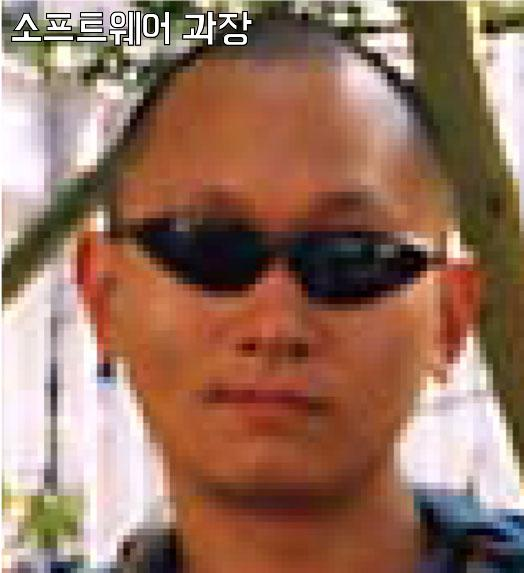
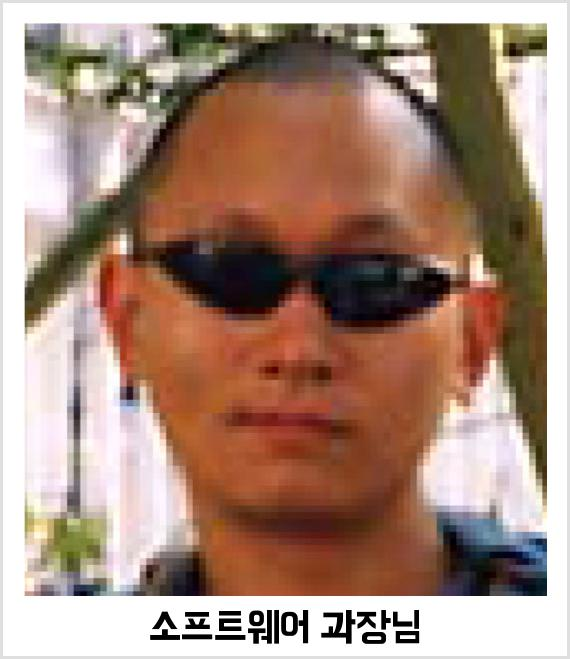
이미지+제목 합성 테스트 완료.

diff --git a/server/apps/processing/controllers/GMController.js b/server/apps/processing/controllers/GMController.js
@@ -5,37 +5,58 @@
  */
 var gm = require('gm')
 	, path = require('path')
-	, fs = require('fs');
+	, fs = require('fs')
+	, async = require('async');
+
+var FONT_SIZE = 40,
+	CANVAS_MARGIN = 80;
 
 var clientPath = path.join(__dirname, '../../../../client/');
 
 function test(req, res) {
-	var title = req.query.title || '소프트웨어 과장';
-	
+	var title   = req.query.title || '소프트웨어 과장';
 	var srcPath = clientPath + 'images/sw.jpg';
 	var dstPath = clientPath + 'images/sw_dst.jpg';
-	
-//	res.redirect("/images/sw_dst.jpg");
-	
-	
-	// annotate an image
-	gm(srcPath)
-	.stroke("#000000")
-	.strokeWidth('1')
-	.font(clientPath + "fonts/BM-HANNA.ttf", 40)
-	.fill('#ffffff')
-	.drawText(10, 40, title)
-	.write(dstPath, function (err) {
-		if (err) console.log(err);
-		
-		res.render('index', {
-			locals: {
-				title   : 'processing',
-				dstPath : '/images/sw_dst.jpg'
-			},
-			cache: false
-		});
-	});
+
+	async.waterfall([
+   		function(callback) {
+   			gm(srcPath)
+   			.size(function (err, size) {
+   				if (err) callback(err);
+   					
+   				callback(null, size);
+   			});
+   		},
+   		function(size, callback) {
+   			// annotate an image
+   			// gravity : NorthWest|North|NorthEast|West|Center|East|SouthWest|South|SouthEast
+   			gm(srcPath)
+   			.gravity('Center') 
+   			.extent(size.width + CANVAS_MARGIN / 2, size.height + CANVAS_MARGIN / 2)
+   			.gravity('North') 
+   			.extent(0, size.height + CANVAS_MARGIN)
+   			.border(3, 3)
+   			//.stroke("#333333", 2)
+   			//.strokeWidth(2)
+   			.font(clientPath + "fonts/BM-HANNA.ttf", FONT_SIZE)
+   			.fill('#000000')
+   			.drawText(0, CANVAS_MARGIN / 4, title, 'South')
+   			.write(dstPath, function (err) {
+   				if (err) callback(err);
+   				
+   				res.render('index', {
+   					locals: {
+   						title   : 'processing',
+   						dstPath : '/images/sw_dst.jpg'
+   					},
+   					cache: false
+   				});
+   			});
+   		}
+   	], 
+   	function (err, result) {
+ 		if (err) throw err;
+   	});
 
 	// resize
 //	gm(srcPath)
